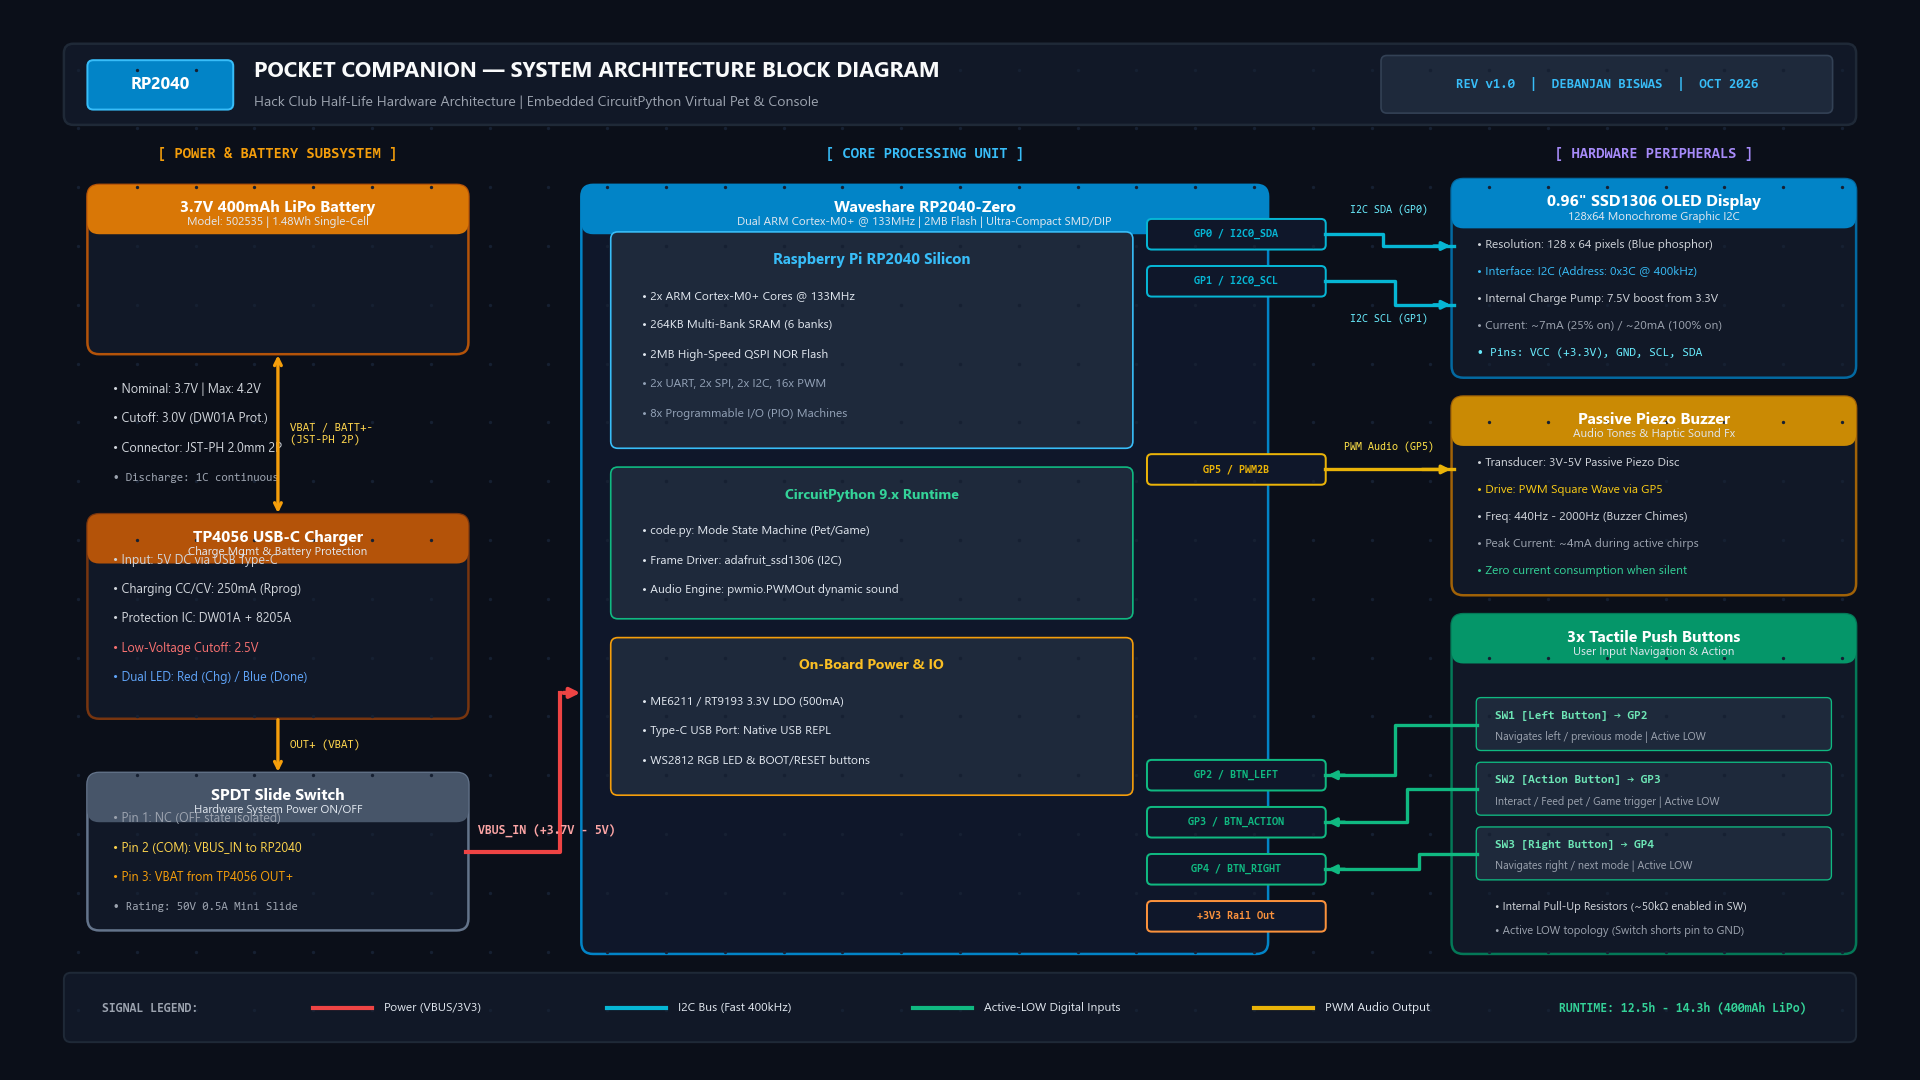
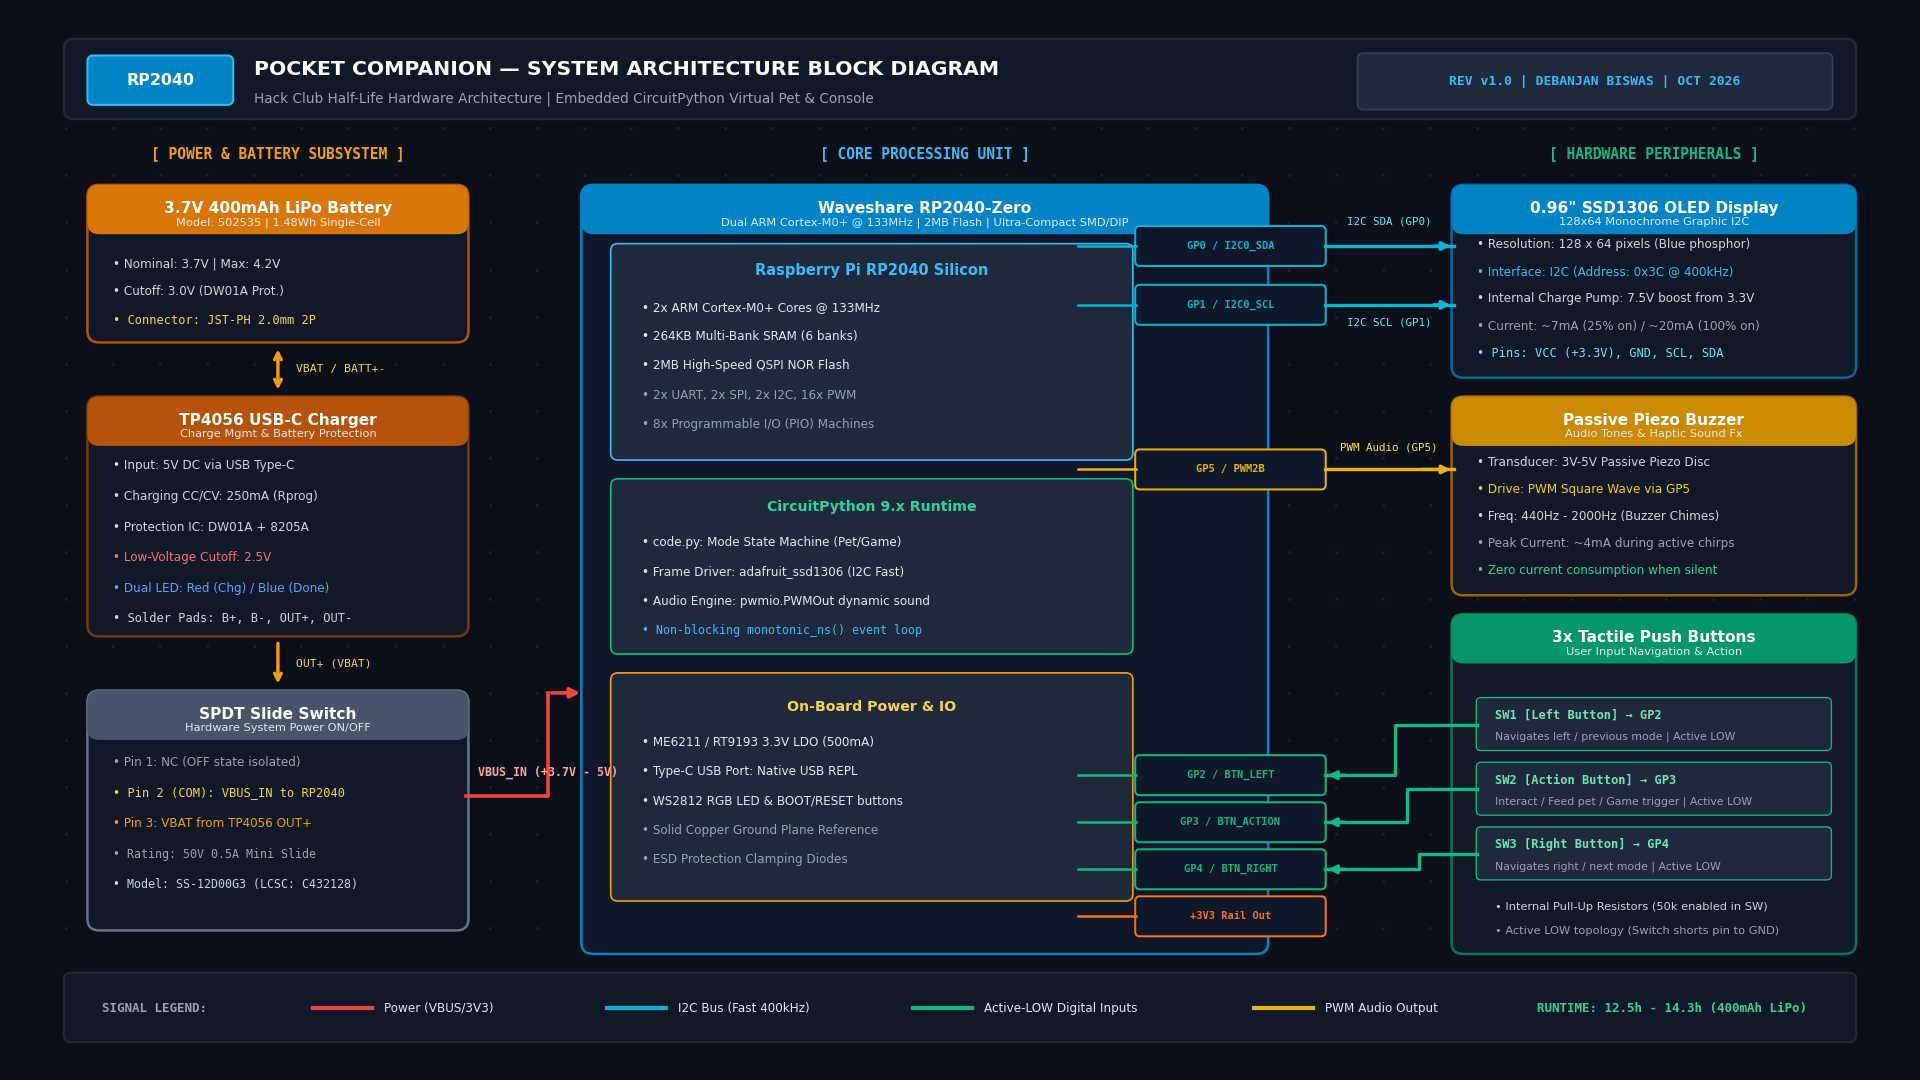
chore(diagram): Refresh system architecture block diagram

diff --git a/hardware/render_real_gerber_media.py b/hardware/render_real_gerber_media.py
@@ -765,10 +765,10 @@ def render_10_gerber_manufacturing_stackup_preview():
     draw.rectangle([(0, 1046), (w, 1080)], fill=(30, 41, 59))
     draw.line([(0, 1046), (w, 1046)], fill=(51, 65, 85), width=1)
 
-    draw.text((16, 1056), "Archive: Gerber_Pocket_Companion_v1.zip (7 Raw RS-274X Files)", font=get_font(11, mono=True), fill=(241, 245, 249))
+    draw.text((16, 1056), "Archive: Gerber_Pocket_Companion_v2.zip (8 Production RS-274X & DRL Files)", font=get_font(11, mono=True), fill=(241, 245, 249))
     draw.text((500, 1056), "CAM Engine: Gerbv / JLCPCB Verification Mode", font=get_font(11, mono=True), fill=(148, 163, 184))
-    draw.text((900, 1056), "Total Primitives: 146 Shapes", font=get_font(11, mono=True), fill=(245, 158, 11))
-    draw.text((1200, 1056), "Total Drills: 23 Plated PTH", font=get_font(11, mono=True), fill=(56, 189, 248))
+    draw.text((900, 1056), "Total Primitives: 219 Shapes", font=get_font(11, mono=True), fill=(245, 158, 11))
+    draw.text((1200, 1056), "Total Drills: 43 Plated PTH", font=get_font(11, mono=True), fill=(56, 189, 248))
     draw.text((w - 320, 1056), "STATUS: 100% PRODUCTION READY", font=get_font(11, bold=True, mono=True), fill=(52, 211, 153))
 
     out_path = os.path.join(OUTPUT_DIR, "10_gerber_manufacturing_stackup_preview.png")
